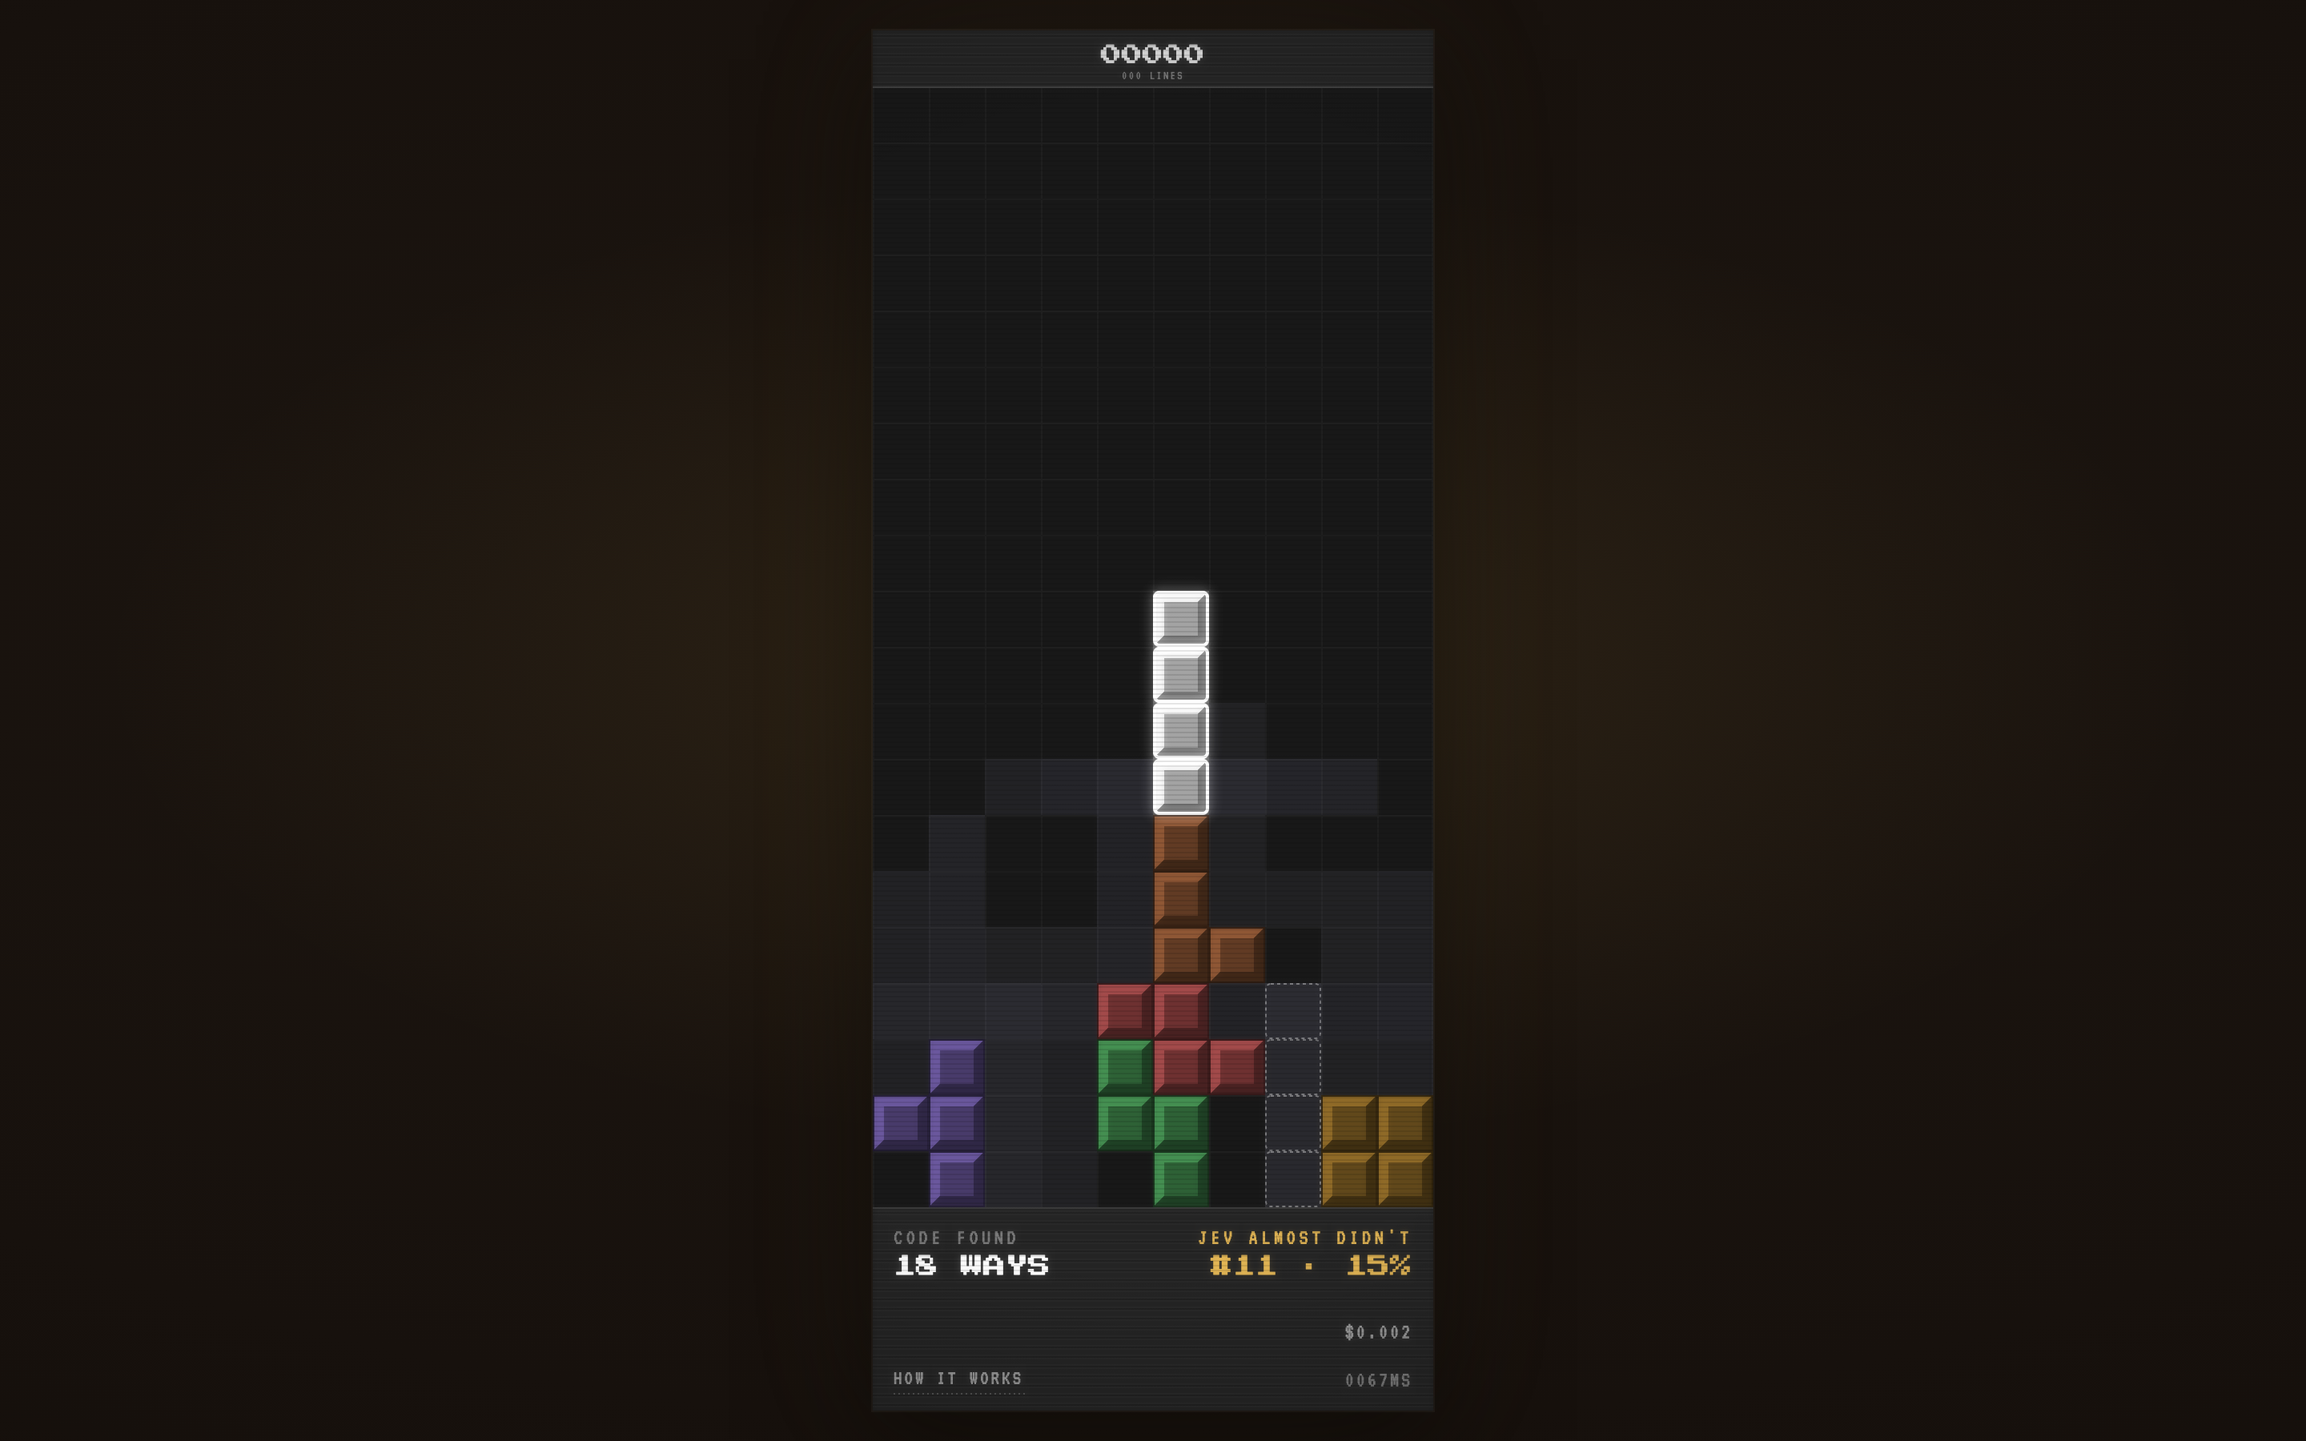
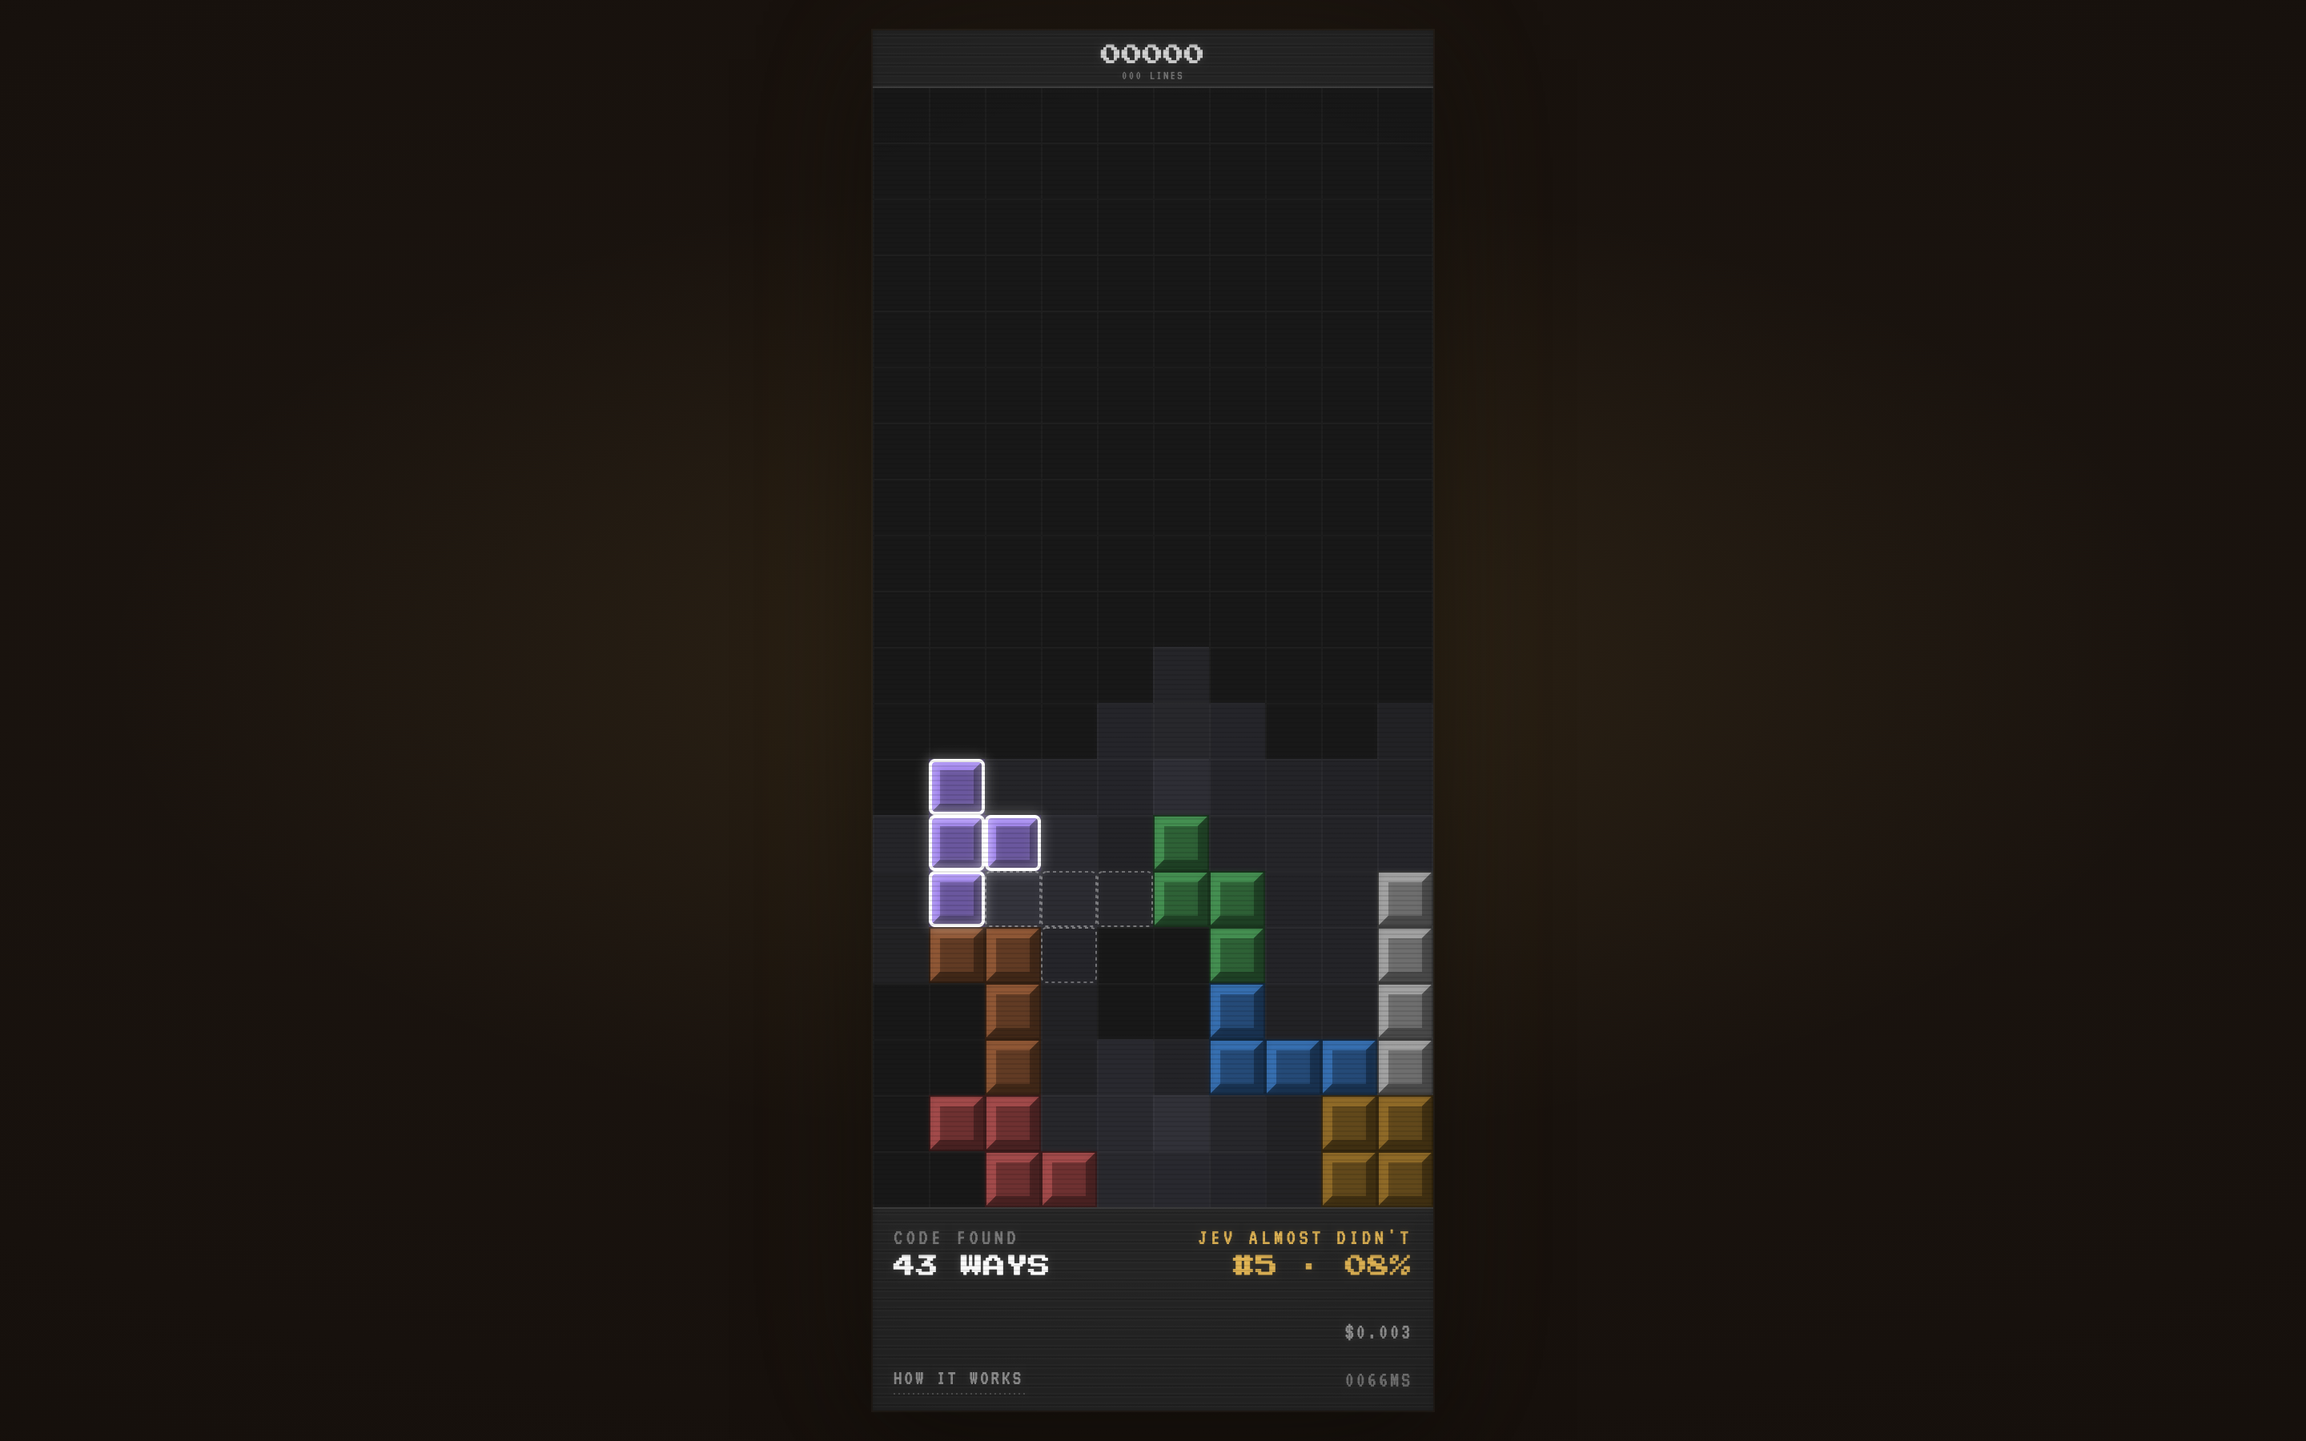
Fix the game never ending, and test the rules without the model
The piece spawned in the space above the field, so it could always slide in
somewhere: the game never topped out and the waiting piece was drawn straight
over the stack. It now spawns inside the field at the top rows, which is the
actual rule — a blocked spawn is the end of the game. The falling piece only
descends into rows that are genuinely empty.

Adds tools/engine-test.js: 33 checks on the rules with no model and no browser.
No placement overlaps or floats, lines clear and everything above falls, a
blocked spawn offers nothing, the bag is fair and deterministic, tucks are
reachable and straight drops are a subset of them. A 400-move game is audited
after every move for cell-count drift, and a careless player is made to top out
so the ending is exercised rather than assumed.

npm test now runs the rules and the interface.

Claude-Session: https://claude.ai/code/session_01QMwKw4FudxURZnTiNJrjDR

Changed region(s): [[0.375, 0.4044, 0.625, 0.84], [0.5312, 0.8711, 0.5625, 0.9022], [0.375, 0.8711, 0.4062, 0.9022]]

diff --git a/tools/engine-test.js b/tools/engine-test.js
@@ -1,0 +1,202 @@
+// The game itself, with no model and no browser involved. Every invariant the
+// board must never break, plus a long played-out game checked move by move.
+//
+//   node tools/engine-test.js
+
+import {
+  COLS, ROWS, PIECES, PIECE_TYPES, emptyBoard, enumeratePlacements, enumerateDrops,
+  applyPlacement, columnHeights, countHoles, holesByColumn, makeBag, spawnBlocked,
+  spawnColumn, evaluate, LINE_SCORE,
+} from '../src/tetris.js'
+import { heuristicPick } from '../src/heuristic.js'
+
+let passed = 0
+let failed = 0
+const check = (name, ok, detail = '') => {
+  console.log(`  ${ok ? '✓' : '✗'} ${name}${detail ? `  — ${detail}` : ''}`)
+  ok ? passed++ : failed++
+}
+const filled = (b) => b.flat().filter(Boolean).length
+const occupied = (b, x, y) => y >= 0 && y < ROWS && x >= 0 && x < COLS && !!b[y][x]
+
+console.log('\nshapes')
+check('rotation counts are right',
+  PIECES.O.length === 1 && PIECES.I.length === 2 && PIECES.S.length === 2 &&
+  PIECES.Z.length === 2 && PIECES.T.length === 4 && PIECES.J.length === 4 && PIECES.L.length === 4)
+check('every piece is four cells',
+  PIECE_TYPES.every((p) => PIECES[p].every((m) => m.flat().filter(Boolean).length === 4)))
+
+console.log('\nplacements on a clear board')
+{
+  const b = emptyBoard()
+  let allIn = true, allSupported = true, allClear = true, allFour = true
+  const seen = new Set()
+  let dupes = 0
+  for (const p of PIECE_TYPES) {
+    for (const pl of enumeratePlacements(b, p)) {
+      if (pl.cells.length !== 4) allFour = false
+      for (const [x, y] of pl.cells) {
+        if (x < 0 || x >= COLS || y < 0 || y >= ROWS) allIn = false
+        if (occupied(b, x, y)) allClear = false
+      }
+      // resting: one row lower must be blocked by the floor or a block
+      const canFall = pl.cells.every(([x, y]) => y + 1 < ROWS && !occupied(b, x, y + 1))
+      if (canFall) allSupported = false
+      const key = p + pl.cells.map((c) => c.join(',')).sort().join('|')
+      if (seen.has(key)) dupes++
+      seen.add(key)
+    }
+  }
+  check('every placement is four cells', allFour)
+  check('every placement is inside the field', allIn)
+  check('no placement overlaps an existing block', allClear)
+  check('every placement is resting on something', allSupported)
+  check('no duplicate placements', dupes === 0, `${dupes} duplicates`)
+}
+
+console.log('\nlines')
+{
+  const b = emptyBoard()
+  for (let x = 0; x < COLS - 1; x++) b[ROWS - 1][x] = 1
+  b[ROWS - 3][0] = 1                                   // a marker that must fall
+  const one = applyPlacement(b, { cells: [[COLS - 1, ROWS - 1]] }, 1)
+  check('a full row clears', one.cleared === 1)
+  check('the row above falls by one', one.board[ROWS - 2][0] === 1 && !one.board[ROWS - 3][0])
+  check('the cleared row is gone', one.board[ROWS - 1].every((c) => !c))
+  check('a top row appears', one.board[0].every((c) => !c))
+}
+{
+  const b = emptyBoard()
+  for (let y = ROWS - 4; y < ROWS; y++) for (let x = 0; x < COLS - 1; x++) b[y][x] = 1
+  const four = applyPlacement(b, { cells: [[9, ROWS - 4], [9, ROWS - 3], [9, ROWS - 2], [9, ROWS - 1]] }, 1)
+  check('four rows clear at once', four.cleared === 4)
+  check('the board is empty afterwards', filled(four.board) === 0)
+}
+{
+  const b = emptyBoard()
+  b[ROWS - 5][3] = 1
+  for (const y of [ROWS - 3, ROWS - 1]) for (let x = 0; x < COLS - 1; x++) b[y][x] = 1
+  const two = applyPlacement(b, { cells: [[9, ROWS - 3], [9, ROWS - 1]] }, 1)
+  check('two non-adjacent rows clear together', two.cleared === 2)
+  check('the survivor lands two rows lower', two.board[ROWS - 3][3] === 1)
+}
+
+console.log('\nmeasurements')
+{
+  const b = emptyBoard()
+  b[ROWS - 1][0] = 1; b[ROWS - 2][0] = 1
+  b[ROWS - 1][5] = 1
+  b[ROWS - 3][2] = 1                                    // roofs two empty cells
+  const h = columnHeights(b)
+  check('column heights', h[0] === 2 && h[5] === 1 && h[2] === 3 && h[9] === 0)
+  check('holes counted', countHoles(b) === 2, `got ${countHoles(b)}`)
+  check('holes located', holesByColumn(b)[2] === 2)
+}
+
+console.log('\ntucks')
+{
+  const b = emptyBoard()
+  b[15][1] = 1
+  for (let y = 15; y < ROWS; y++) b[y][2] = 1
+  const reach = enumeratePlacements(b, 'I')
+  const drops = enumerateDrops(b, 'I')
+  const key = (p) => p.cells.map((c) => c.join(',')).sort().join('|')
+  const dk = new Set(drops.map(key))
+  const extra = reach.filter((p) => !dk.has(key(p)))
+  check('a tuck under an overhang is reachable', extra.length >= 1, `${extra.length} beyond straight drops`)
+  check('straight drops are a subset of reachable', drops.every((p) => reach.some((r) => key(r) === key(p))))
+}
+
+console.log('\ntopping out')
+{
+  const b = emptyBoard()
+  for (let x = 0; x < COLS; x++) for (let y = 0; y < 2; y++) b[y][x] = 1
+  check('a blocked spawn offers no placement', PIECE_TYPES.every((p) => enumeratePlacements(b, p).length === 0))
+  check('spawnBlocked agrees', PIECE_TYPES.every((p) => spawnBlocked(b, p)))
+
+  const nearly = emptyBoard()
+  for (let y = 2; y < ROWS; y++) for (let x = 0; x < COLS; x++) nearly[y][x] = 1
+  check('a stack up to the spawn rows still allows play', PIECE_TYPES.some((p) => enumeratePlacements(nearly, p).length > 0))
+
+  const onlyTop = emptyBoard()
+  for (let x = 0; x < COLS; x++) onlyTop[0][x] = 1
+  check('a blocked first row ends it for every piece', PIECE_TYPES.every((p) => enumeratePlacements(onlyTop, p).length === 0))
+  check('the spawn column is where the piece is drawn',
+    PIECE_TYPES.every((p) => spawnColumn(p) + PIECES[p][0][0].length <= COLS))
+}
+
+console.log('\nthe bag')
+{
+  const bag = makeBag(99)
+  let fair = true
+  for (let n = 0; n < 12; n++) {
+    const seven = Array.from({ length: 7 }, () => bag())
+    if (new Set(seven).size !== 7) fair = false
+  }
+  check('every seven pieces contain each shape once', fair)
+  const a = makeBag(5), c = makeBag(5)
+  check('the same seed gives the same sequence',
+    Array.from({ length: 30 }, () => a()).join('') === Array.from({ length: 30 }, () => c()).join(''))
+}
+
+console.log('\na played-out game, checked every move')
+{
+  let b = emptyBoard()
+  const bag = makeBag(7)
+  let placed = 0, cleared = 0, score = 0
+  const bySize = [0, 0, 0, 0, 0]
+  let bad = null
+  for (let i = 0; i < 400; i++) {
+    const t = bag()
+    const ps = enumeratePlacements(b, t)
+    if (ps.length === 0) break
+    const pick = heuristicPick(b, ps)
+
+    for (const [x, y] of pick.cells) {
+      if (occupied(b, x, y)) bad ??= `overlap at ${x},${y} on move ${i}`
+      if (x < 0 || x >= COLS || y < 0 || y >= ROWS) bad ??= `outside the field on move ${i}`
+    }
+    const ev = evaluate(b, pick)
+
+    const res = applyPlacement(b, pick, 1)
+    placed++
+    bySize[res.cleared]++
+    cleared += res.cleared
+    score += LINE_SCORE[res.cleared]
+    b = res.board
+
+    if (filled(b) !== placed * 4 - cleared * COLS) {
+      bad ??= `cell count drifted on move ${i}: ${filled(b)} vs ${placed * 4 - cleared * COLS}`
+    }
+    if (Math.max(...columnHeights(b)) > ROWS) bad ??= `stack above the ceiling on move ${i}`
+    if (ev.holes !== countHoles(b)) bad ??= `evaluate disagreed about holes on move ${i}`
+  }
+  check('no invalid board in the whole game', bad === null, bad ?? `${placed} pieces, ${cleared} lines`)
+  const expected = bySize.reduce((a, n, size) => a + n * LINE_SCORE[size], 0)
+  check('score is exactly the line table applied to the clears', score === expected, `${score} vs ${expected}`)
+  check('a competent player survives the cap', placed === 400, `${placed} pieces, ${cleared} lines`)
+}
+
+// and a bad player, which must actually reach the end
+{
+  let b = emptyBoard()
+  const bag = makeBag(7)
+  let seed = 1234
+  const rand = () => ((seed = (seed * 1103515245 + 12345) >>> 0) / 4294967296)
+  let placed = 0
+  let endedProperly = false
+  for (let i = 0; i < 400; i++) {
+    const t = bag()
+    const ps = enumeratePlacements(b, t)
+    if (ps.length === 0) { endedProperly = true; break }
+    b = applyPlacement(b, ps[Math.floor(rand() * ps.length)], 1).board
+    placed++
+  }
+  check('a careless player tops out rather than playing forever', endedProperly, `${placed} pieces`)
+  check('the end state really does block the spawn',
+    !endedProperly || spawnBlocked(b, PIECE_TYPES.find((p) => enumeratePlacements(b, p).length === 0)))
+  check('and nothing was stacked above the ceiling', Math.max(...columnHeights(b)) <= ROWS)
+}
+
+console.log(`\n${passed} passed, ${failed} failed\n`)
+process.exit(failed ? 1 : 0)

diff --git a/public/main.js b/public/main.js
@@ -1,4 +1,4 @@
-import { COLS, ROWS, PIECES, emptyBoard, enumeratePlacements, applyPlacement, makeBag, LINE_SCORE } from '/src/tetris.js'
+import { COLS, ROWS, PIECES, emptyBoard, enumeratePlacements, applyPlacement, makeBag, spawnColumn, LINE_SCORE } from '/src/tetris.js'
 import { describeBoard, describePlacements, buildQuestions, blend, VOICES } from '/src/describe.js'
 import { begin as audioBegin, toggleMute, sfx } from '/audio.js'
 
@@ -292,19 +292,26 @@ function start() {
 // How far the piece has fallen while it waits: a row every 320ms, stopping
 // short of the stack. The answer arrives and it drops the rest of the way.
 function gateRowAt(t) {
-  if (!current) return 1
+  if (!current) return 0
   const m = PIECES[current][0]
-  const ox = Math.floor((COLS - m[0].length) / 2)
-  const wanted = 1 + Math.floor(Math.max(0, t - thinkingSince) / 320)
-  let r = 1
-  for (let cand = 1; cand <= Math.min(wanted, ROWS - m.length); cand++) {
-    let clear = true
-    for (let yy = 0; yy < m.length && clear; yy++) {
+  const ox = spawnColumn(current)
+  const free = (row) => {
+    for (let yy = 0; yy < m.length; yy++) {
       for (let xx = 0; xx < m[yy].length; xx++) {
-        if (m[yy][xx] && board?.[cand + yy]?.[ox + xx]) { clear = false; break }
+        if (!m[yy][xx]) continue
+        if (row + yy >= ROWS) return false
+        if (board?.[row + yy]?.[ox + xx]) return false
       }
     }
-    if (!clear) break
+    return true
+  }
+  // Start at the spawn row and only descend into space that is actually empty,
+  // so the waiting piece can never be drawn on top of the stack.
+  if (!free(0)) return 0
+  const wanted = Math.floor(Math.max(0, t - thinkingSince) / 320)
+  let r = 0
+  for (let cand = 1; cand <= wanted; cand++) {
+    if (!free(cand)) break
     r = cand
   }
   return r
@@ -434,11 +441,11 @@ function drawBoard(t) {
   // present but not yet placed. It leaves the moment a placement is chosen.
   if ((phase === 'thinking' || phase === 'idle') && current) {
     const m = PIECES[current][0]
-    const ox = Math.floor((COLS - m[0].length) / 2)
+    const ox = spawnColumn(current)
     gateRow = gateRowAt(t)
     for (let yy = 0; yy < m.length; yy++) {
       for (let xx = 0; xx < m[yy].length; xx++) {
-        if (m[yy][xx]) block(ox + xx, yy + gateRow, PIECE_COLOR[current] ?? C.ink2, 0.2)
+        if (m[yy][xx]) block(ox + xx, gateRow + yy, PIECE_COLOR[current] ?? C.ink2, 0.2)
       }
     }
   }

diff --git a/src/tetris.js b/src/tetris.js
@@ -68,7 +68,11 @@ function collides(board, cells) {
 export function enumeratePlacements(board, type) {
   const rots = PIECES[type]
   const spawnX = Math.floor((COLS - rots[0][0].length) / 2)
-  const spawnY = -rots[0].length
+  // The piece spawns INSIDE the field, at the top rows — not in the space
+  // above it. Spawning above the ceiling meant a piece could always slide in
+  // somewhere, so the game never topped out and the waiting piece drew over
+  // the stack. If the spawn is blocked, the game is over; that is the rule.
+  const spawnY = 0
   const fits = (r, x, y) => !collides(board, cellsOf(rots[r], x, y))
   if (!fits(0, spawnX, spawnY)) return []
 
@@ -104,6 +108,14 @@ export function enumeratePlacements(board, type) {
   return [...locks.values()]
     .sort((a, b) => a.x - b.x || a.y - b.y || a.rot - b.rot)
     .map((p, i) => ({ id: `p${i}`, ...p }))
+}
+
+// Where a piece enters the field, so the renderer and the engine agree.
+export function spawnColumn(type) {
+  return Math.floor((COLS - PIECES[type][0][0].length) / 2)
+}
+export function spawnBlocked(board, type) {
+  return collides(board, cellsOf(PIECES[type][0], spawnColumn(type), 0))
 }
 
 // The old behaviour: straight drops only. Kept so the two can be compared.

diff --git a/README.md b/README.md
@@ -63,12 +63,19 @@ server; the browser never sees it.
 ## Tests
 
 ```bash
-npm test                     # 24 checks, mocked: no key, no cost
+npm test                     # both suites, no key and no cost
+npm run test:engine          # the game itself, no browser
+npm run test:ui              # the interface, headless, against a mocked model
 ```
 
-Drives the real page in headless Chrome: that it plays, that nothing scrolls at
-five viewport sizes, that the overlays open and close, that losing the connection
-stalls rather than ending the game, and that restart works.
+**`test:engine`** — 33 checks on the rules alone: that no placement ever overlaps
+or floats, that lines clear and everything above falls, that a blocked spawn ends
+the game, that the bag is fair and deterministic, and a 400-move game audited
+after every single move for cell-count drift.
+
+**`test:ui`** — drives the real page in headless Chrome: that it plays, that
+nothing scrolls at five sizes, that the panel opens and closes, that losing the
+connection stalls rather than ending the game, and that START begins a new round.
 
 ## Does JEV actually play it?
 
